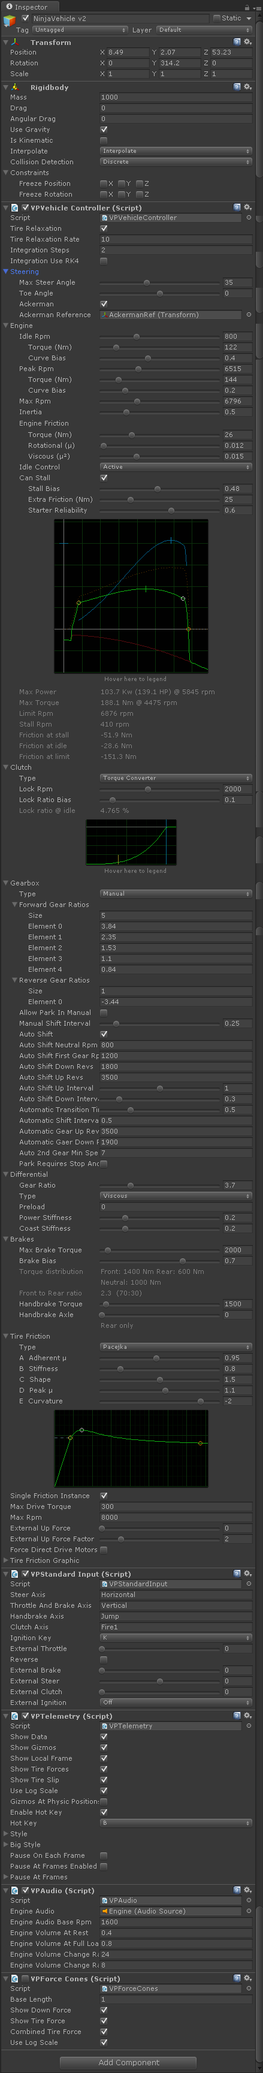
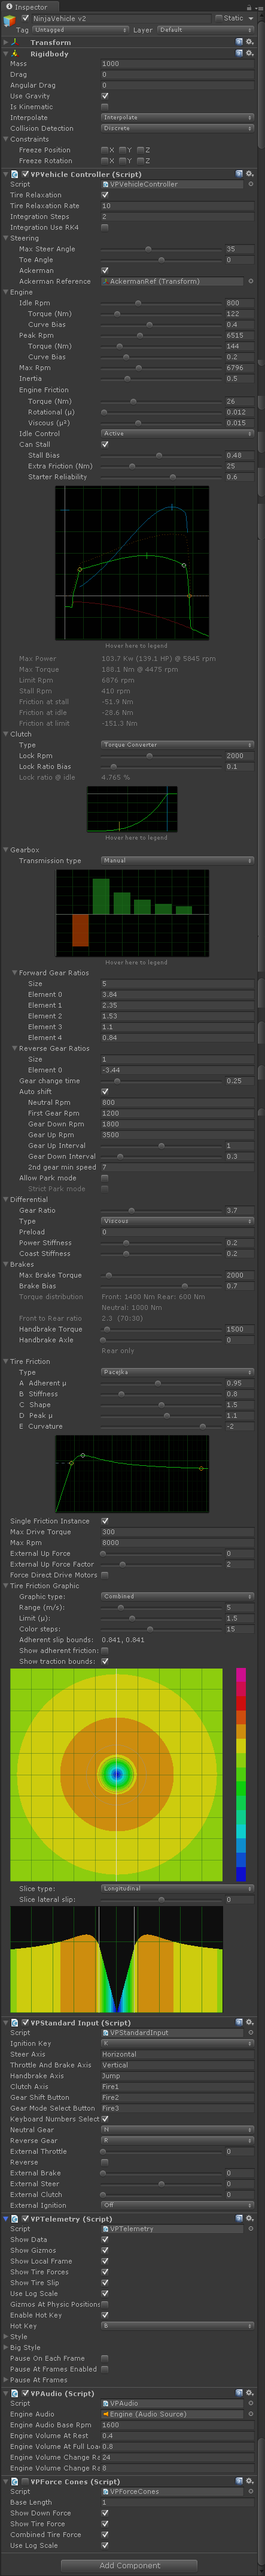
Early Access updates to the latest version

diff --git a/docs/early-access.md b/docs/early-access.md
@@ -165,8 +165,8 @@ indications on how the vehicles are implemented and simulated by overriding the 
 
 ### Components
 
-Actual inspector for the vehicle GameObject. Gearbox is work in progress at the time of taking
-this capture:
+Actual inspector for the vehicle GameObject. The Vehicle Controller component exposes several
+development properties:
 
 ![Vehicle Physics Pro Alpha Inspector](img/vehicle-physics-pro-alpha-inspector.png)
 
